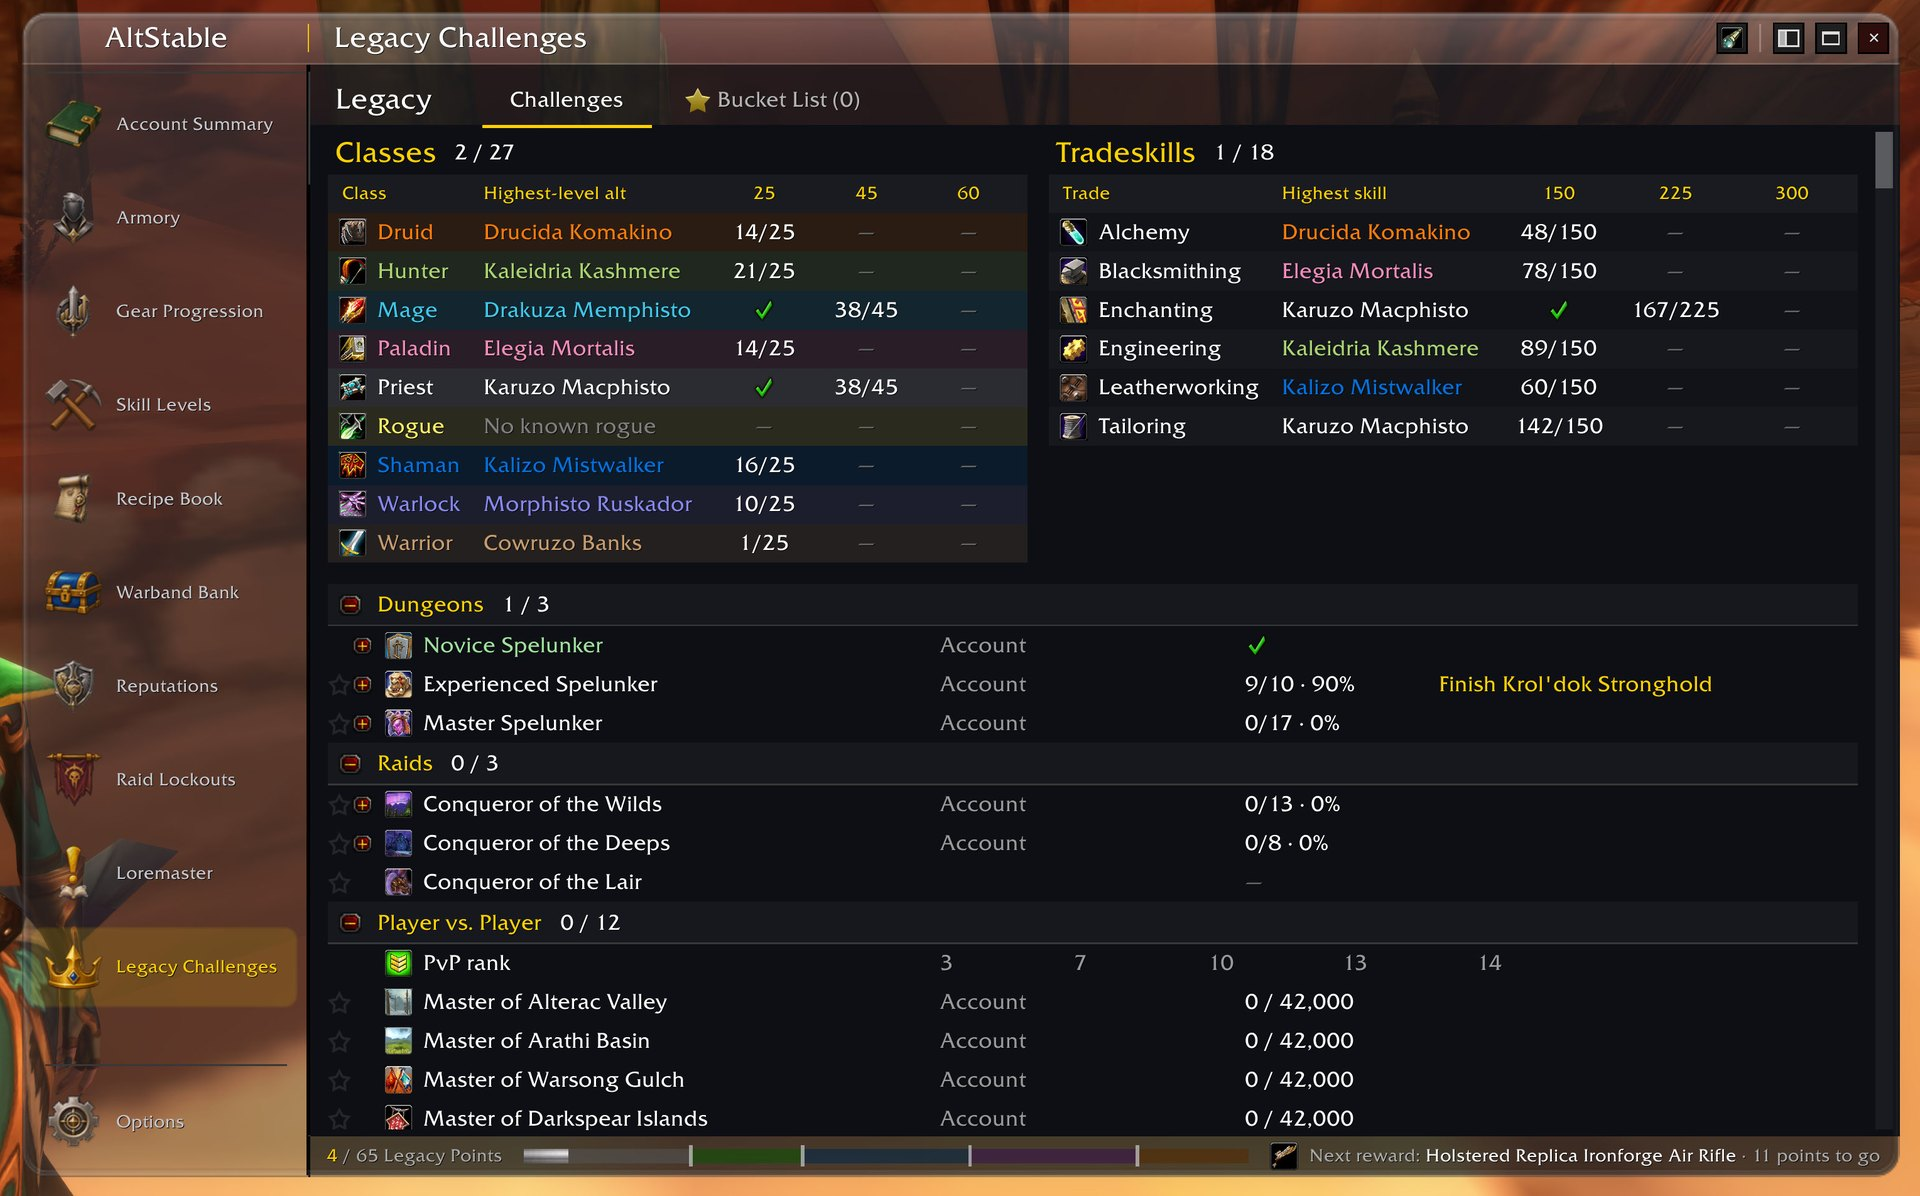
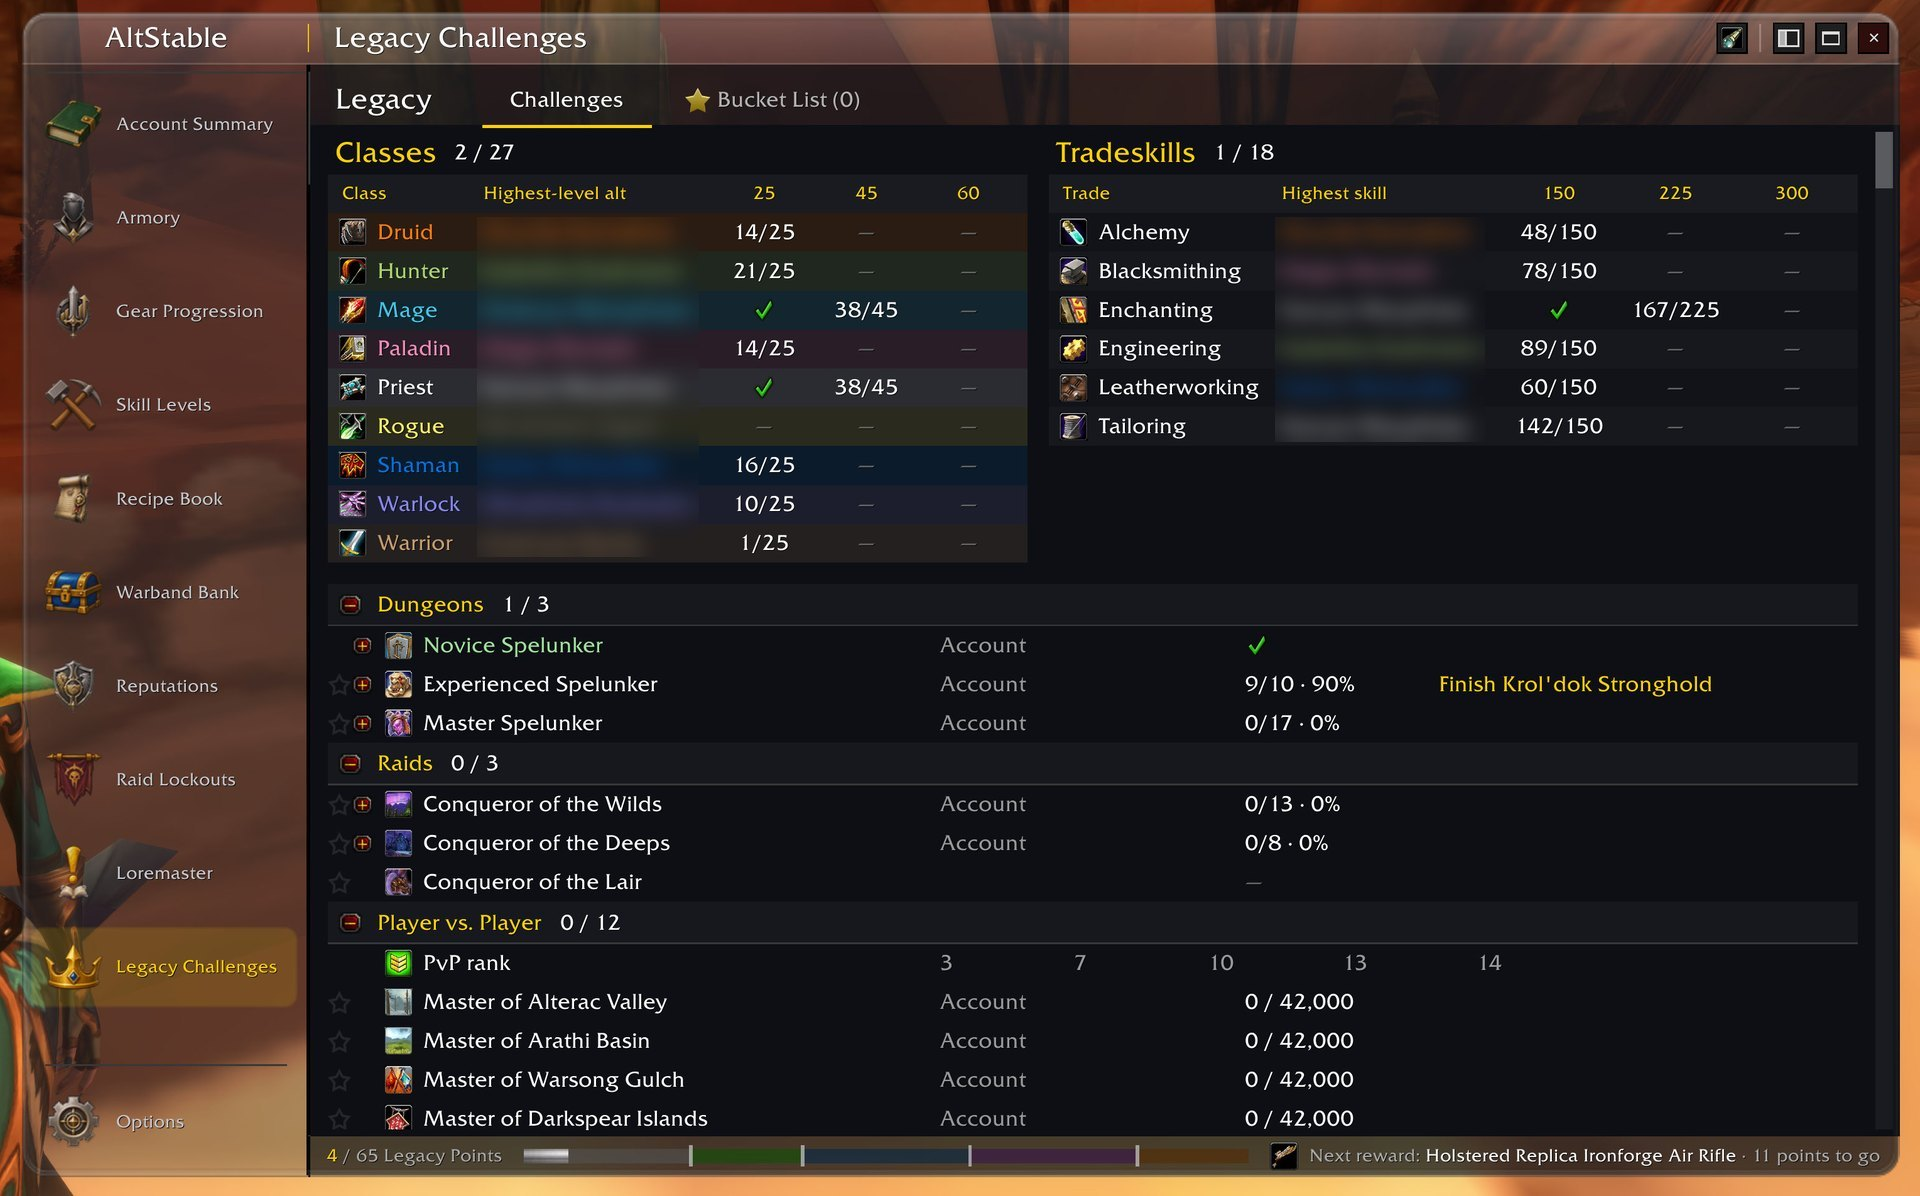
README screenshots: names blurred, the Loremaster and Raid Lockouts captions
The README promises blurred names (Codex review of #531): every character
and guild name is blurred in the ten images that show them. The Loremaster
caption describes the zone shown, and the Raid Lockouts one an empty view.

Changed region(s): [[0.25, 0.1856, 0.375, 0.464], [0.6562, 0.1856, 0.7812, 0.3712]]

diff --git a/README.md b/README.md
@@ -106,7 +106,7 @@ characters, plus anyone else who holds a lockout.
 
 ![The Raid Lockouts tab: Barrow Deeps, Hyjal Summit and Onyxia's Lair, with the active saves and the characters tracked along the bottom](https://raw.githubusercontent.com/Spotnick2/AltStable/main/docs/images/raids.jpg)
 
-*The Raid Lockouts tab, waiting for your first level-60 save.*
+*The Raid Lockouts tab before any character has a raid to show: no level-60 character and no lockout yet.*
 
 ### How far along are my Legacy Challenges?
 
@@ -161,7 +161,7 @@ can ever do there, for its faction, race and class, at any level.
 
 ![The Loremaster tab: the map of Orgrimmar, a card with 11 of 62 quests done, and the zones of Kalimdor with each character's progress](https://raw.githubusercontent.com/Spotnick2/AltStable/main/docs/images/loremaster.jpg)
 
-*The Loremaster tab: a dungeon's entrance on the map, its card, and every character's progress.*
+*The Loremaster tab: a zone on the map, its card for one character, and every character's progress by zone.*
 
 Zone, dungeon, raid, battleground and profession quests count, breadcrumbs included. Repeatable
 quests, holiday quests and quests not in the game don't. A quest a character can no longer take
